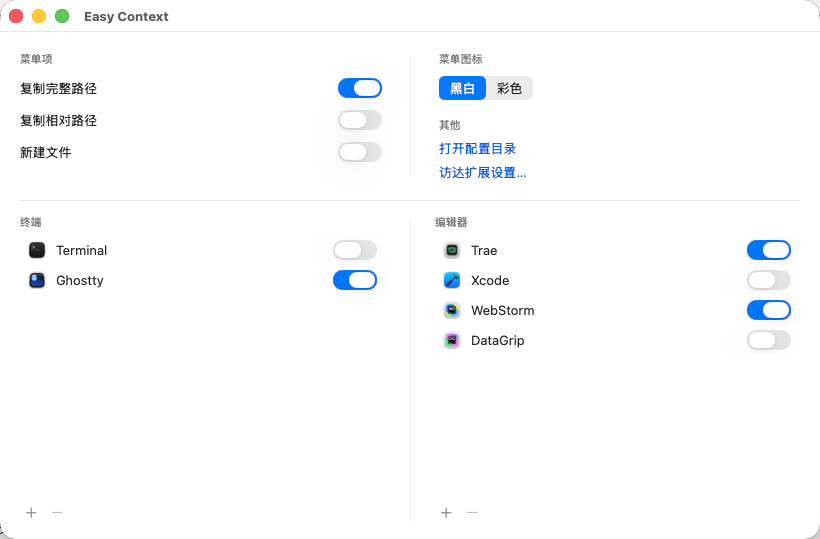
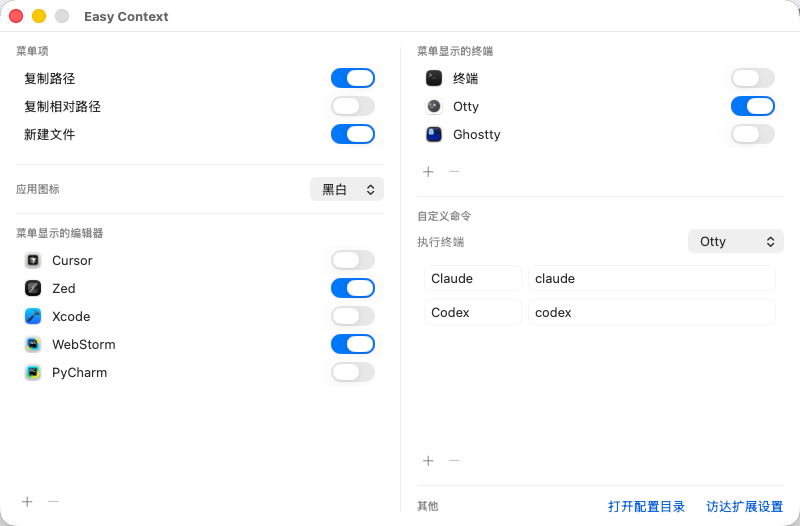
docs: README 对齐当前实际功能，更新截图
- 内置终端清单补上 Otty；AppleScript 型终端各处同步加 Otty
- 执行终端规则改为「已安装且有启动模板」（对应 launchable 过滤），
  说明 Warp/Hyper 等需自行添加模板才能作为执行终端
- FinderSync 开发要点：深浅色判断更新为「手动读 AppleInterfaceStyle、
  自动切换模式跳主线程读 effectiveAppearance」的混合策略
- 已知限制补充无内置模板终端的说明

diff --git a/README.md b/README.md
@@ -13,7 +13,7 @@
 ## 功能
 
 - **复制完整路径** / **复制相对路径**（相对最近的 `.git` 仓库根，不在仓库内回退 `~`）
-- **用终端打开**当前目录 —— 自动识别 Terminal、iTerm、Warp、Ghostty、kitty、WezTerm、Alacritty、Hyper、Tabby、Rio、Wave、Termius
+- **用终端打开**当前目录 —— 自动识别 Terminal、iTerm、Warp、Otty、Ghostty、kitty、WezTerm、Alacritty、Hyper、Tabby、Rio、Wave、Termius
 - **用编辑器打开**当前目录 —— VS Code、VSCodium、Cursor、Trae、Devin（原 Windsurf）、CodeBuddy、Zed、Sublime Text、Nova、BBEdit、TextMate、MacVim、Emacs、Xcode、JetBrains 全家桶（WebStorm / IntelliJ IDEA〔含 CE〕/ PyCharm〔含 CE〕/ GoLand / CLion / PhpStorm / RubyMine / Rider / DataGrip / Fleet）、Android Studio 等
 - **在终端运行命令**（`用 XX 运行 YY`）—— 一键在**执行终端**里于当前目录运行 AI CLI 等命令（预置 `claude` / `codex`，可自定义增删）
 - **新建文件** —— 子菜单选模板（Markdown / 文本 / Shell / JSON），弹**命名面板**输入文件名（预选基名、保留扩展名；重名自动加序号、`.sh` 自动加可执行位），创建后在 Finder 中选中
@@ -53,7 +53,7 @@
   "commands": [                                     // 「用 XX 运行 YY」的命令
     { "id": "…uuid…", "name": "Claude", "command": "claude", "enabled": true }
   ],
-  "defaultTerminal": null,                          // 执行终端 bundleId；null=第一个已安装终端
+  "defaultTerminal": null,                          // 执行终端 bundleId；null=第一个可用终端
   "terminalTemplates": {},                          // 终端启动模板的“用户覆盖”，空=全用内置
   "appearance": { "appIconStyle": "monochrome" }    // monochrome | color
 }
@@ -66,10 +66,10 @@
 ### 在终端运行命令
 
 - 右键菜单出现 `用 <执行终端> 运行 <命令名>`（如 `用 Terminal 运行 Claude`），在**当前目录**打开终端并运行该命令。
-- **执行终端 ≠ 菜单显示**：执行终端是「命令在哪跑」，只看**装没装**，与「菜单显示的终端」开关无关；设置界面「执行终端」下拉列出全部已安装终端，`null` 时取第一个已安装终端（系统 Terminal 兜底）。
-- **PATH**：GUI 进程 PATH 精简，`-e` 型终端（kitty/WezTerm/Alacritty）经用户登录 shell `$EC_SHELL -lic <cmd>` 运行，确保能找到 `~/.local/bin` 等里的 `claude`/`codex`。Terminal/iTerm/Ghostty 用 AppleScript 把命令输入交互 shell，PATH 天然正确。
+- **执行终端 ≠ 菜单显示**：执行终端是「命令在哪跑」，与「菜单显示的终端」开关无关，条件是**已安装且有启动模板**——内置模板覆盖 Terminal / iTerm / Ghostty / Otty / kitty / WezTerm / Alacritty；其余（Warp、Hyper 等）需在 `terminalTemplates` 自行添加模板后才会进入候选。设置界面「执行终端」下拉即列出这些可用终端，`defaultTerminal` 为 `null` 时取第一个（系统 Terminal 兜底）。
+- **PATH**：GUI 进程 PATH 精简，`-e` 型终端（kitty/WezTerm/Alacritty）经用户登录 shell `$EC_SHELL -lic <cmd>` 运行，确保能找到 `~/.local/bin` 等里的 `claude`/`codex`。Terminal/iTerm/Ghostty/Otty 用 AppleScript 把命令输入交互 shell，PATH 天然正确。
 - **自定义启动模板**：`terminalTemplates` 只存**覆盖**（空 = 用内置）。想改某终端：参照配置目录里自动生成的 **`terminal-templates.reference.json`**（列出全部内置模板与 bundleId），把对应条目复制到 `terminalTemplates` 修改。占位符 `{dir}`/`{cmd}` 会替换为 `"$EC_DIR"`/`"$EC_CMD"`（值只走环境变量，勿自行加引号），可用 `$EC_SHELL`。
-- **Ghostty / Terminal / iTerm** 用 AppleScript 运行命令（把命令输入交互 shell，非 `-e` 执行）：单窗口、无「Allow execute」弹框、PATH 正确；仅**首次**需一次性授权「EasyContext 控制 <终端>」（macOS 自动化权限，同 Terminal/iTerm）。Ghostty 需 1.3.0+。
+- **Ghostty / Terminal / iTerm / Otty** 用 AppleScript 运行命令（把命令输入交互 shell，非 `-e` 执行）：单窗口、无「Allow execute」弹框、PATH 正确；仅**首次**需一次性授权「EasyContext 控制 <终端>」（macOS 自动化权限）。Ghostty 需 1.3.0+。
 
 ## 从源码构建
 
@@ -105,7 +105,7 @@ cd EasyContextCore && swift test
 - **`menu(for:)` 与菜单点击的动作回调运行在后台 XPC 工作线程，不是主线程**；而 `init()` 与 NSWorkspace 卷挂载/卸载通知在主线程。⚠ 曾因误加 `assert(Thread.isMainThread)` 到 `menu(for:)`、错误假设它在主线程，导致每次右键扩展崩溃。由此衍生：
   - 跨「工作线程菜单构建」与「主线程卷通知」共享的缓存**必须加锁**（本项目用 `NSRecursiveLock`，临界区只读写缓存、把读盘/渲染等耗时操作放在锁外）。
   - 离屏图标绘制用 **bitmap-backed `NSGraphicsContext`**，不要用 `NSImage.lockFocus`（主线程取向的 API，在工作线程属未受支持路径，会偶发失败/崩溃）。
-  - 读系统深浅色用全局 **`AppleInterfaceStyle`**，不要用 `NSApp.effectiveAppearance`（主线程属性，工作线程取值不可靠）。
+  - 读系统深浅色：手动深浅色模式读全局 **`AppleInterfaceStyle`**（线程安全）；「自动切换」外观下该键不跟随时段翻转，需 `main.sync` 跳主线程读 `NSApp.effectiveAppearance`（主线程属性，工作线程直接取不可靠）。⚠ 勿在持缓存锁时调用，否则与主线程等锁形成死锁环。
 - **扩展必须开启 App Sandbox**（pkd 拒绝非沙盒插件）；本地自用靠 `temporary-exception` entitlement 放行 `/Users//Volumes/` 等文件访问。
 - **菜单项的 `representedObject` 会在 XPC 往返中丢失**，故用 `tag` 索引应用列表。
 - **打开 App 用 `NSWorkspace.open`**（沙盒禁止 spawn 进程，不能用 `Process`/`open`）；**新建文件用子菜单**选模板、点选后交宿主弹命名面板创建（扩展弹模态 UI 会抛异常）。
@@ -116,4 +116,5 @@ cd EasyContextCore && swift test
 
 - **分发**：用 `.pkg`（`scripts/build-pkg.sh`）分发——安装出来的 App 不带 quarantine、无需手动清理，且 preinstall 会自动关掉正在运行的旧 App 与 FinderSync 扩展，重装不再报「正在使用中」。不签名的 pkg 首次打开仍需右键→打开放行一次；要做到「双击即装、全程零提示」，需 **Apple Developer ID 证书 + 公证（notarization）**（付费账号，详见 `scripts/build-pkg.sh` 顶部注释）。
 - 部分小众 AI 编辑器（PearAI / Void 等）暂无可靠 bundle id，未进内置清单，可用设置界面的 `+` 自行添加。
-- **在终端运行命令 / 新建文件**由宿主 App 处理（后台代理，无 Dock 图标；双击 App 才显示配置窗）：首次用 AppleScript 型终端（Terminal / iTerm / Ghostty）运行命令时，会弹一次性「控制终端」的自动化授权。
+- **在终端运行命令 / 新建文件**由宿主 App 处理（后台代理，无 Dock 图标；双击 App 才显示配置窗）：首次用 AppleScript 型终端（Terminal / iTerm / Ghostty / Otty）运行命令时，会弹一次性「控制终端」的自动化授权。
+- Warp、Hyper、Tabby、Rio、Wave、Termius 暂无内置启动模板：可在菜单里**打开目录**，但不能作为**执行终端**运行命令，除非在 `terminalTemplates` 自行添加模板。
